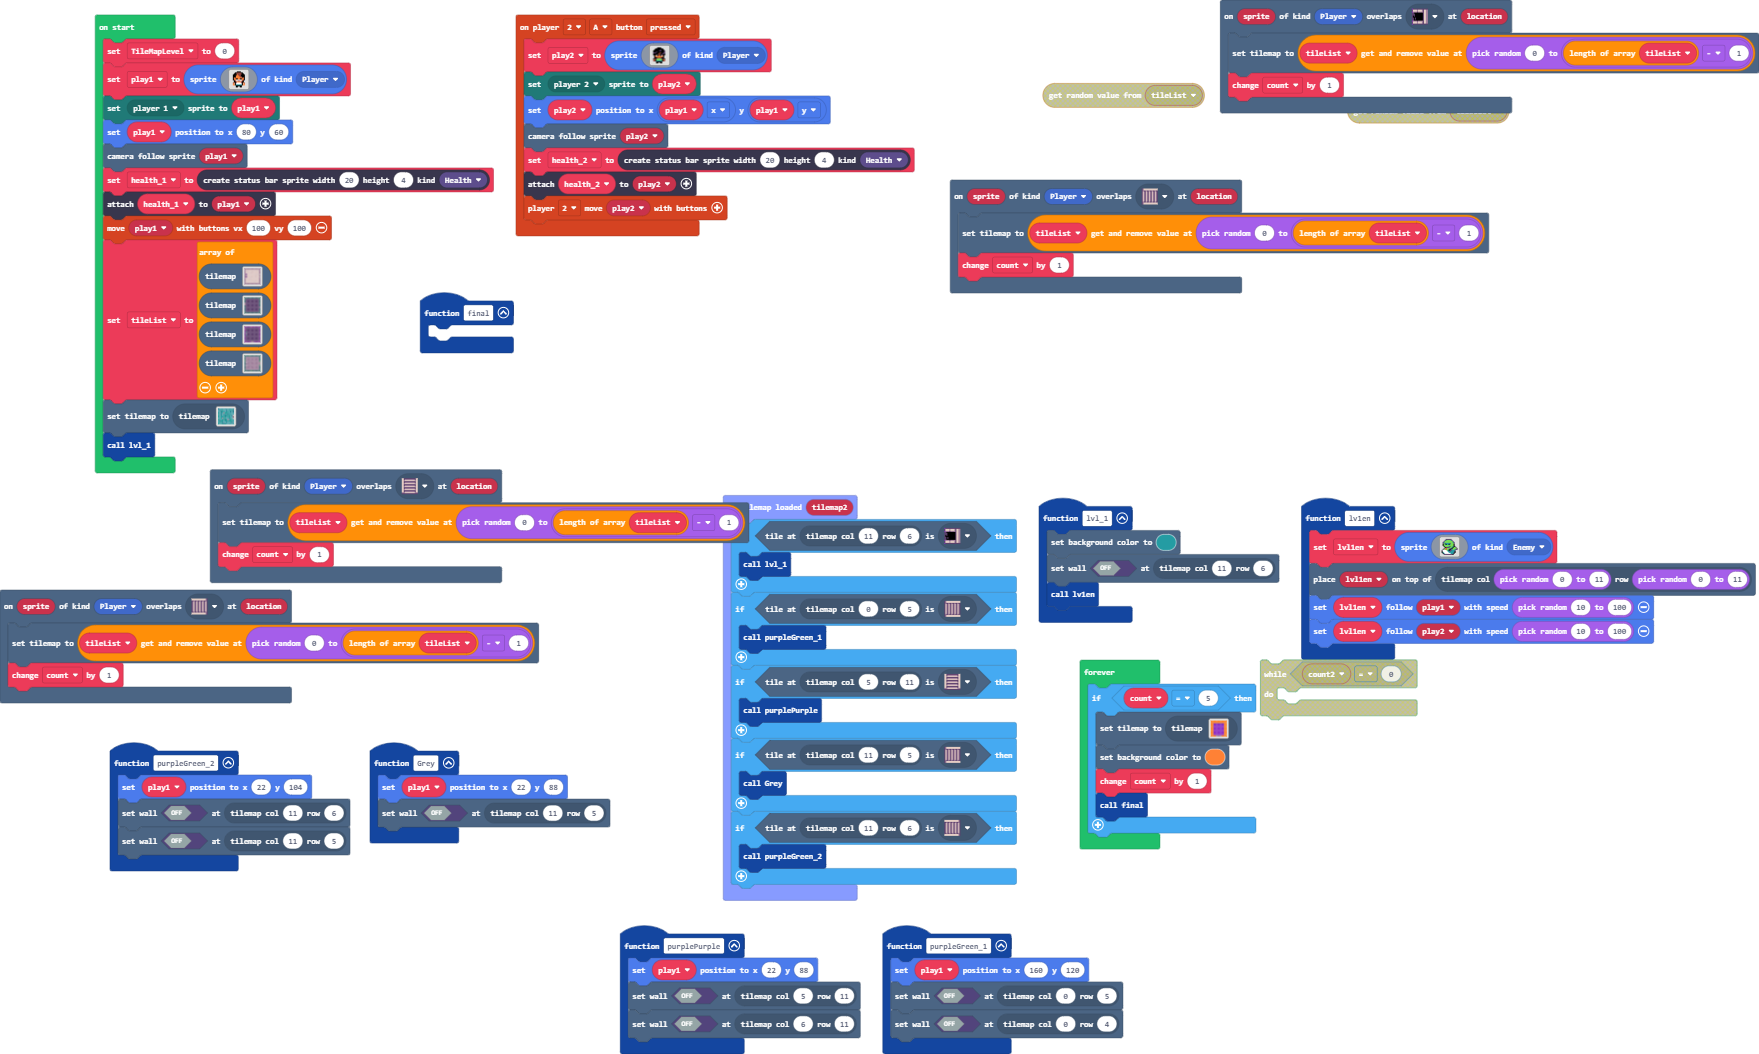
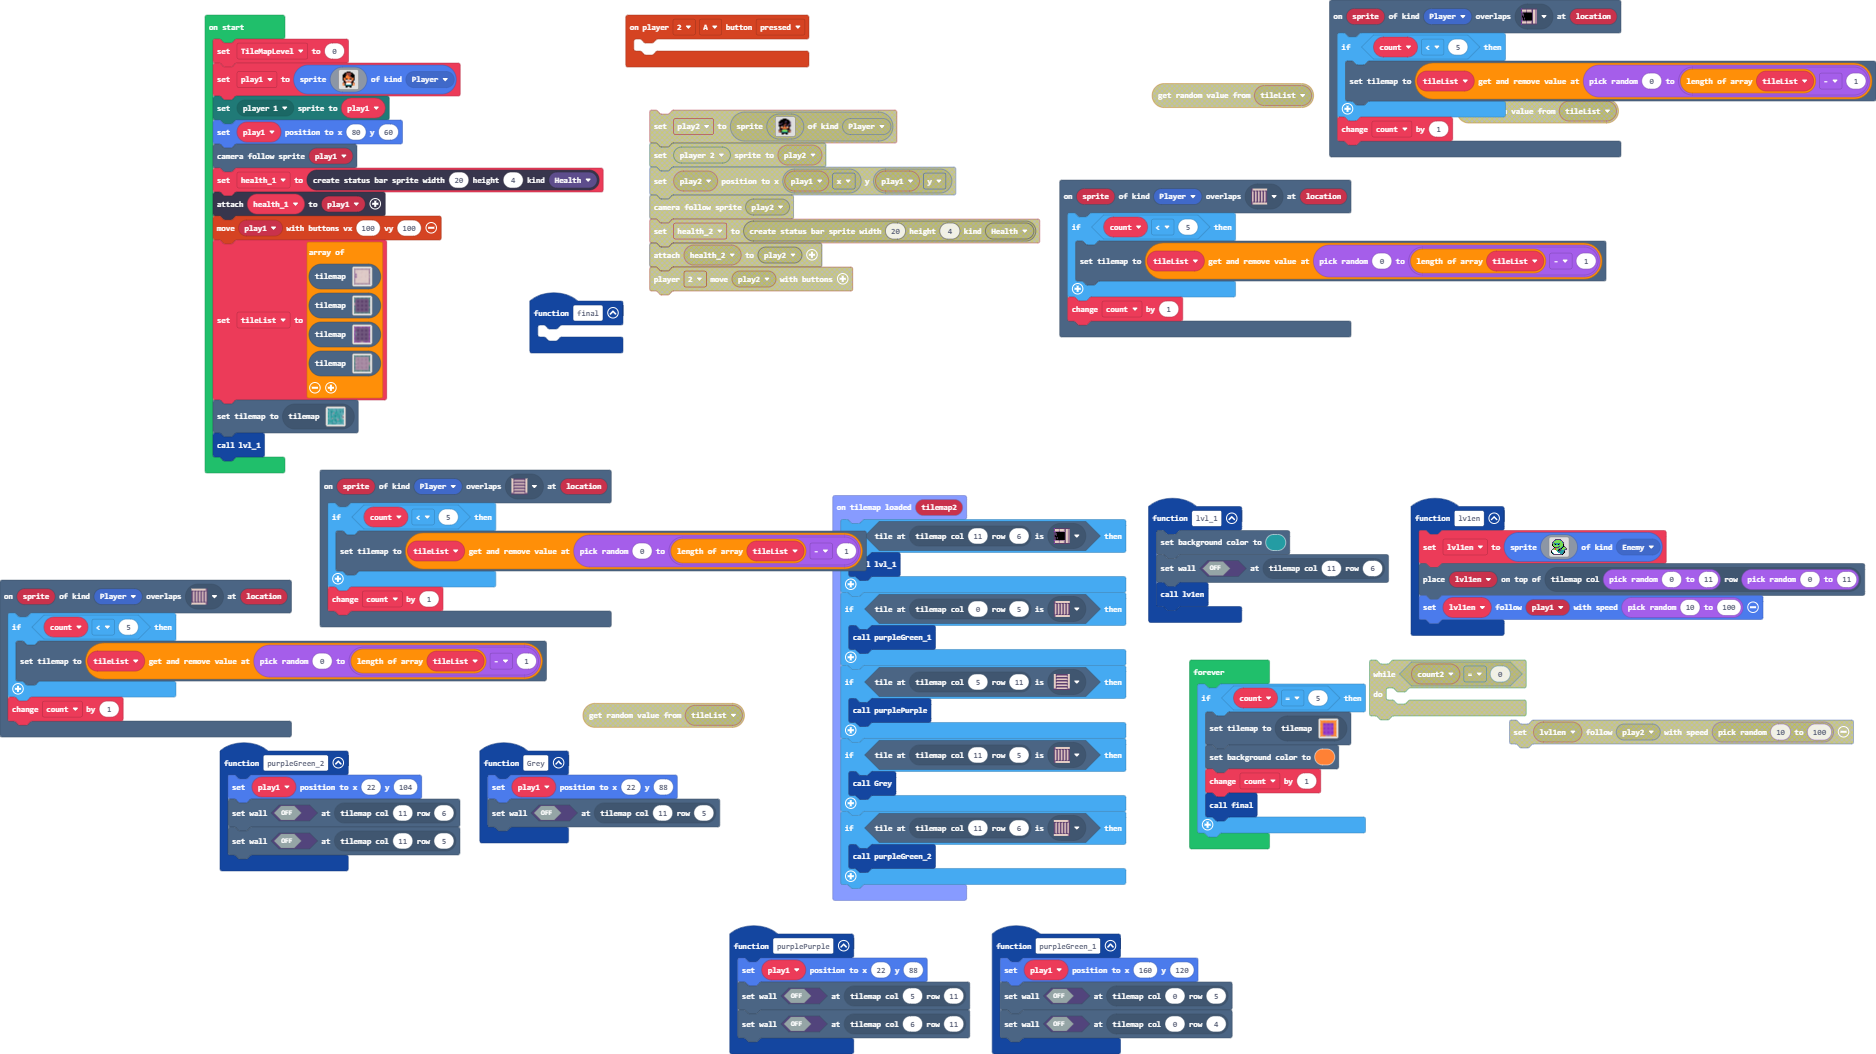
Update main.blocks, main.ts, tilemap.g.jres, tilemap.g.ts

diff --git a/tilemap.g.ts b/tilemap.g.ts
@@ -285,6 +285,101 @@ namespace myTiles {
 . . . . . . . . . . . . . . . . 
 . . . . . . . . . . . . . . . . 
 `, [myTiles.transparency16], TileScale.Sixteen);
+            case "level19":
+            case "level19":return tiles.createTilemap(hex`1000100000000000000000000000000000000000000000000000000000000000000000000000000000000000000000000000000000000000000000000000000000000000000000000000000000000000000000000000000000000000000000000000000000000000000000000000000000000000000000000000000000000000000000000000000000000000000000000000000000000000000000000000000000000000000000000000000000000000000000000000000000000000000000000000000000000000000000000000000000000000000000000000000000000000000000000000000000000000000000000000000000000000000000000000000000000000`, img`
+. . . . . . . . . . . . . . . . 
+. . . . . . . . . . . . . . . . 
+. . . . . . . . . . . . . . . . 
+. . . . . . . . . . . . . . . . 
+. . . . . . . . . . . . . . . . 
+. . . . . . . . . . . . . . . . 
+. . . . . . . . . . . . . . . . 
+. . . . . . . . . . . . . . . . 
+. . . . . . . . . . . . . . . . 
+. . . . . . . . . . . . . . . . 
+. . . . . . . . . . . . . . . . 
+. . . . . . . . . . . . . . . . 
+. . . . . . . . . . . . . . . . 
+. . . . . . . . . . . . . . . . 
+. . . . . . . . . . . . . . . . 
+. . . . . . . . . . . . . . . . 
+`, [myTiles.transparency16], TileScale.Sixteen);
+            case "level20":
+            case "level20":return tiles.createTilemap(hex`1000100000000000000000000000000000000000000000000000000000000000000000000000000000000000000000000000000000000000000000000000000000000000000000000000000000000000000000000000000000000000000000000000000000000000000000000000000000000000000000000000000000000000000000000000000000000000000000000000000000000000000000000000000000000000000000000000000000000000000000000000000000000000000000000000000000000000000000000000000000000000000000000000000000000000000000000000000000000000000000000000000000000000000000000000000000000000`, img`
+. . . . . . . . . . . . . . . . 
+. . . . . . . . . . . . . . . . 
+. . . . . . . . . . . . . . . . 
+. . . . . . . . . . . . . . . . 
+. . . . . . . . . . . . . . . . 
+. . . . . . . . . . . . . . . . 
+. . . . . . . . . . . . . . . . 
+. . . . . . . . . . . . . . . . 
+. . . . . . . . . . . . . . . . 
+. . . . . . . . . . . . . . . . 
+. . . . . . . . . . . . . . . . 
+. . . . . . . . . . . . . . . . 
+. . . . . . . . . . . . . . . . 
+. . . . . . . . . . . . . . . . 
+. . . . . . . . . . . . . . . . 
+. . . . . . . . . . . . . . . . 
+`, [myTiles.transparency16], TileScale.Sixteen);
+            case "level21":
+            case "level21":return tiles.createTilemap(hex`1000100000000000000000000000000000000000000000000000000000000000000000000000000000000000000000000000000000000000000000000000000000000000000000000000000000000000000000000000000000000000000000000000000000000000000000000000000000000000000000000000000000000000000000000000000000000000000000000000000000000000000000000000000000000000000000000000000000000000000000000000000000000000000000000000000000000000000000000000000000000000000000000000000000000000000000000000000000000000000000000000000000000000000000000000000000000000`, img`
+. . . . . . . . . . . . . . . . 
+. . . . . . . . . . . . . . . . 
+. . . . . . . . . . . . . . . . 
+. . . . . . . . . . . . . . . . 
+. . . . . . . . . . . . . . . . 
+. . . . . . . . . . . . . . . . 
+. . . . . . . . . . . . . . . . 
+. . . . . . . . . . . . . . . . 
+. . . . . . . . . . . . . . . . 
+. . . . . . . . . . . . . . . . 
+. . . . . . . . . . . . . . . . 
+. . . . . . . . . . . . . . . . 
+. . . . . . . . . . . . . . . . 
+. . . . . . . . . . . . . . . . 
+. . . . . . . . . . . . . . . . 
+. . . . . . . . . . . . . . . . 
+`, [myTiles.transparency16], TileScale.Sixteen);
+            case "level22":
+            case "level22":return tiles.createTilemap(hex`1000100000000000000000000000000000000000000000000000000000000000000000000000000000000000000000000000000000000000000000000000000000000000000000000000000000000000000000000000000000000000000000000000000000000000000000000000000000000000000000000000000000000000000000000000000000000000000000000000000000000000000000000000000000000000000000000000000000000000000000000000000000000000000000000000000000000000000000000000000000000000000000000000000000000000000000000000000000000000000000000000000000000000000000000000000000000000`, img`
+. . . . . . . . . . . . . . . . 
+. . . . . . . . . . . . . . . . 
+. . . . . . . . . . . . . . . . 
+. . . . . . . . . . . . . . . . 
+. . . . . . . . . . . . . . . . 
+. . . . . . . . . . . . . . . . 
+. . . . . . . . . . . . . . . . 
+. . . . . . . . . . . . . . . . 
+. . . . . . . . . . . . . . . . 
+. . . . . . . . . . . . . . . . 
+. . . . . . . . . . . . . . . . 
+. . . . . . . . . . . . . . . . 
+. . . . . . . . . . . . . . . . 
+. . . . . . . . . . . . . . . . 
+. . . . . . . . . . . . . . . . 
+. . . . . . . . . . . . . . . . 
+`, [myTiles.transparency16], TileScale.Sixteen);
+            case "level23":
+            case "level23":return tiles.createTilemap(hex`1000100000000000000000000000000000000000000000000000000000000000000000000000000000000000000000000000000000000000000000000000000000000000000000000000000000000000000000000000000000000000000000000000000000000000000000000000000000000000000000000000000000000000000000000000000000000000000000000000000000000000000000000000000000000000000000000000000000000000000000000000000000000000000000000000000000000000000000000000000000000000000000000000000000000000000000000000000000000000000000000000000000000000000000000000000000000000`, img`
+. . . . . . . . . . . . . . . . 
+. . . . . . . . . . . . . . . . 
+. . . . . . . . . . . . . . . . 
+. . . . . . . . . . . . . . . . 
+. . . . . . . . . . . . . . . . 
+. . . . . . . . . . . . . . . . 
+. . . . . . . . . . . . . . . . 
+. . . . . . . . . . . . . . . . 
+. . . . . . . . . . . . . . . . 
+. . . . . . . . . . . . . . . . 
+. . . . . . . . . . . . . . . . 
+. . . . . . . . . . . . . . . . 
+. . . . . . . . . . . . . . . . 
+. . . . . . . . . . . . . . . . 
+. . . . . . . . . . . . . . . . 
+. . . . . . . . . . . . . . . . 
+`, [myTiles.transparency16], TileScale.Sixteen);
         }
         return null;
     })

diff --git a/main.ts b/main.ts
@@ -6,7 +6,9 @@ function Grey () {
     tiles.setWallAt(tiles.getTileLocation(11, 5), false)
 }
 scene.onOverlapTile(SpriteKind.Player, sprites.dungeon.stairNorth, function (sprite, location) {
-    tiles.setCurrentTilemap(tileList.removeAt(randint(0, tileList.length - 1)))
+    if (count < 5) {
+        tiles.setCurrentTilemap(tileList.removeAt(randint(0, tileList.length - 1)))
+    }
     count += 1
 })
 function purpleGreen_1 () {
@@ -15,40 +17,21 @@ function purpleGreen_1 () {
     tiles.setWallAt(tiles.getTileLocation(0, 4), false)
 }
 controller.player2.onButtonEvent(ControllerButton.A, ControllerButtonEvent.Pressed, function () {
-    play2 = sprites.create(img`
-        . . . . f f f f . . . . . 
-        . . f f f f f f f f . . . 
-        . f f f f f f c f f f . . 
-        f f f f f f c c f f f c . 
-        f f f c f f f f f f f c . 
-        c c c f f f e e f f c c . 
-        f f f f f e e f f c c f . 
-        f f f b f e e f b f f f . 
-        . f 4 1 f 4 4 f 1 4 f . . 
-        . f e 4 4 4 4 4 4 e f . . 
-        . f f f e e e e f f f . . 
-        f e f b 7 7 7 7 b f e f . 
-        e 4 f 7 7 7 7 7 7 f 4 e . 
-        e e f 6 6 6 6 6 6 f e e . 
-        . . . f f f f f f . . . . 
-        . . . f f . . f f . . . . 
-        `, SpriteKind.Player)
-    mp.setPlayerSprite(mp.playerSelector(mp.PlayerNumber.Two), play2)
-    play2.setPosition(play1.x, play1.y)
-    scene.cameraFollowSprite(play2)
-    health_2 = statusbars.create(20, 4, StatusBarKind.Health)
-    health_2.attachToSprite(play2)
-    controller.player2.moveSprite(play2)
+	
 })
 scene.onOverlapTile(SpriteKind.Player, sprites.dungeon.doorOpenEast, function (sprite, location) {
-    tiles.setCurrentTilemap(tileList.removeAt(randint(0, tileList.length - 1)))
+    if (count < 5) {
+        tiles.setCurrentTilemap(tileList.removeAt(randint(0, tileList.length - 1)))
+    }
     count += 1
 })
 function final () {
 	
 }
 scene.onOverlapTile(SpriteKind.Player, sprites.dungeon.stairWest, function (sprite, location) {
-    tiles.setCurrentTilemap(tileList.removeAt(randint(0, tileList.length - 1)))
+    if (count < 5) {
+        tiles.setCurrentTilemap(tileList.removeAt(randint(0, tileList.length - 1)))
+    }
     count += 1
 })
 function purpleGreen_2 () {
@@ -62,7 +45,9 @@ function lvl_1 () {
     lv1en()
 }
 scene.onOverlapTile(SpriteKind.Player, sprites.dungeon.stairEast, function (sprite, location) {
-    tiles.setCurrentTilemap(tileList.removeAt(randint(0, tileList.length - 1)))
+    if (count < 5) {
+        tiles.setCurrentTilemap(tileList.removeAt(randint(0, tileList.length - 1)))
+    }
     count += 1
 })
 function purplePurple () {
@@ -108,11 +93,8 @@ function lv1en () {
         `, SpriteKind.Enemy)
     tiles.placeOnTile(lvl1en, tiles.getTileLocation(randint(0, 11), randint(0, 11)))
     lvl1en.follow(play1, randint(10, 100))
-    lvl1en.follow(play2, randint(10, 100))
 }
 let lvl1en: Sprite = null
-let health_2: StatusBarSprite = null
-let play2: Sprite = null
 let count = 0
 let tileList: tiles.TileMapData[] = []
 let play1: Sprite = null
